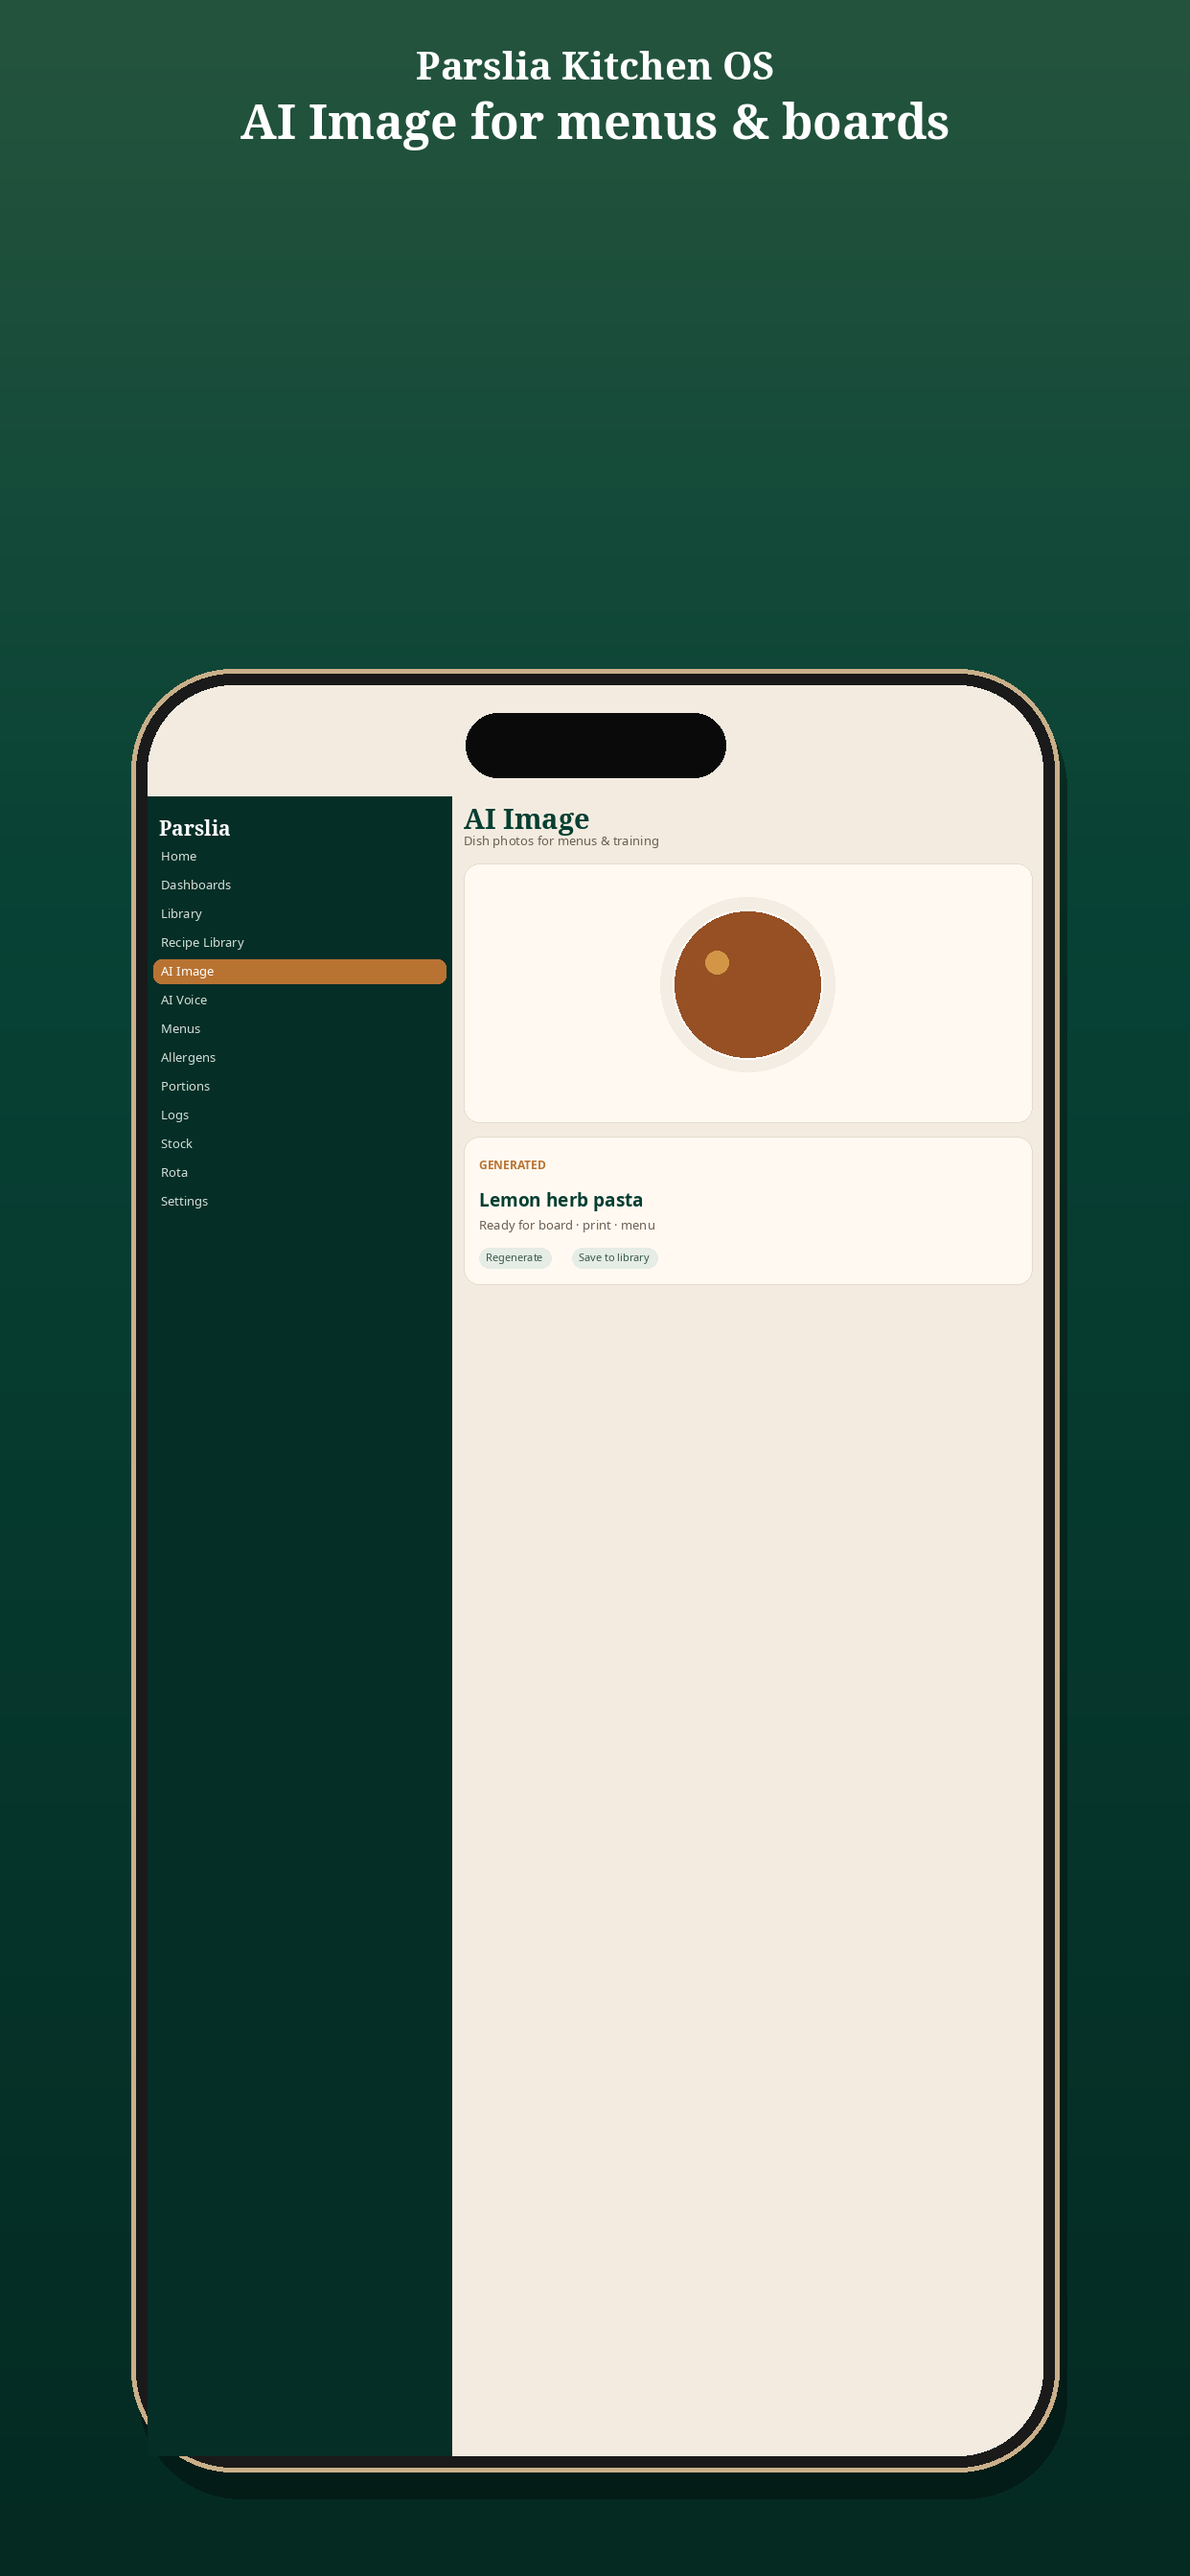
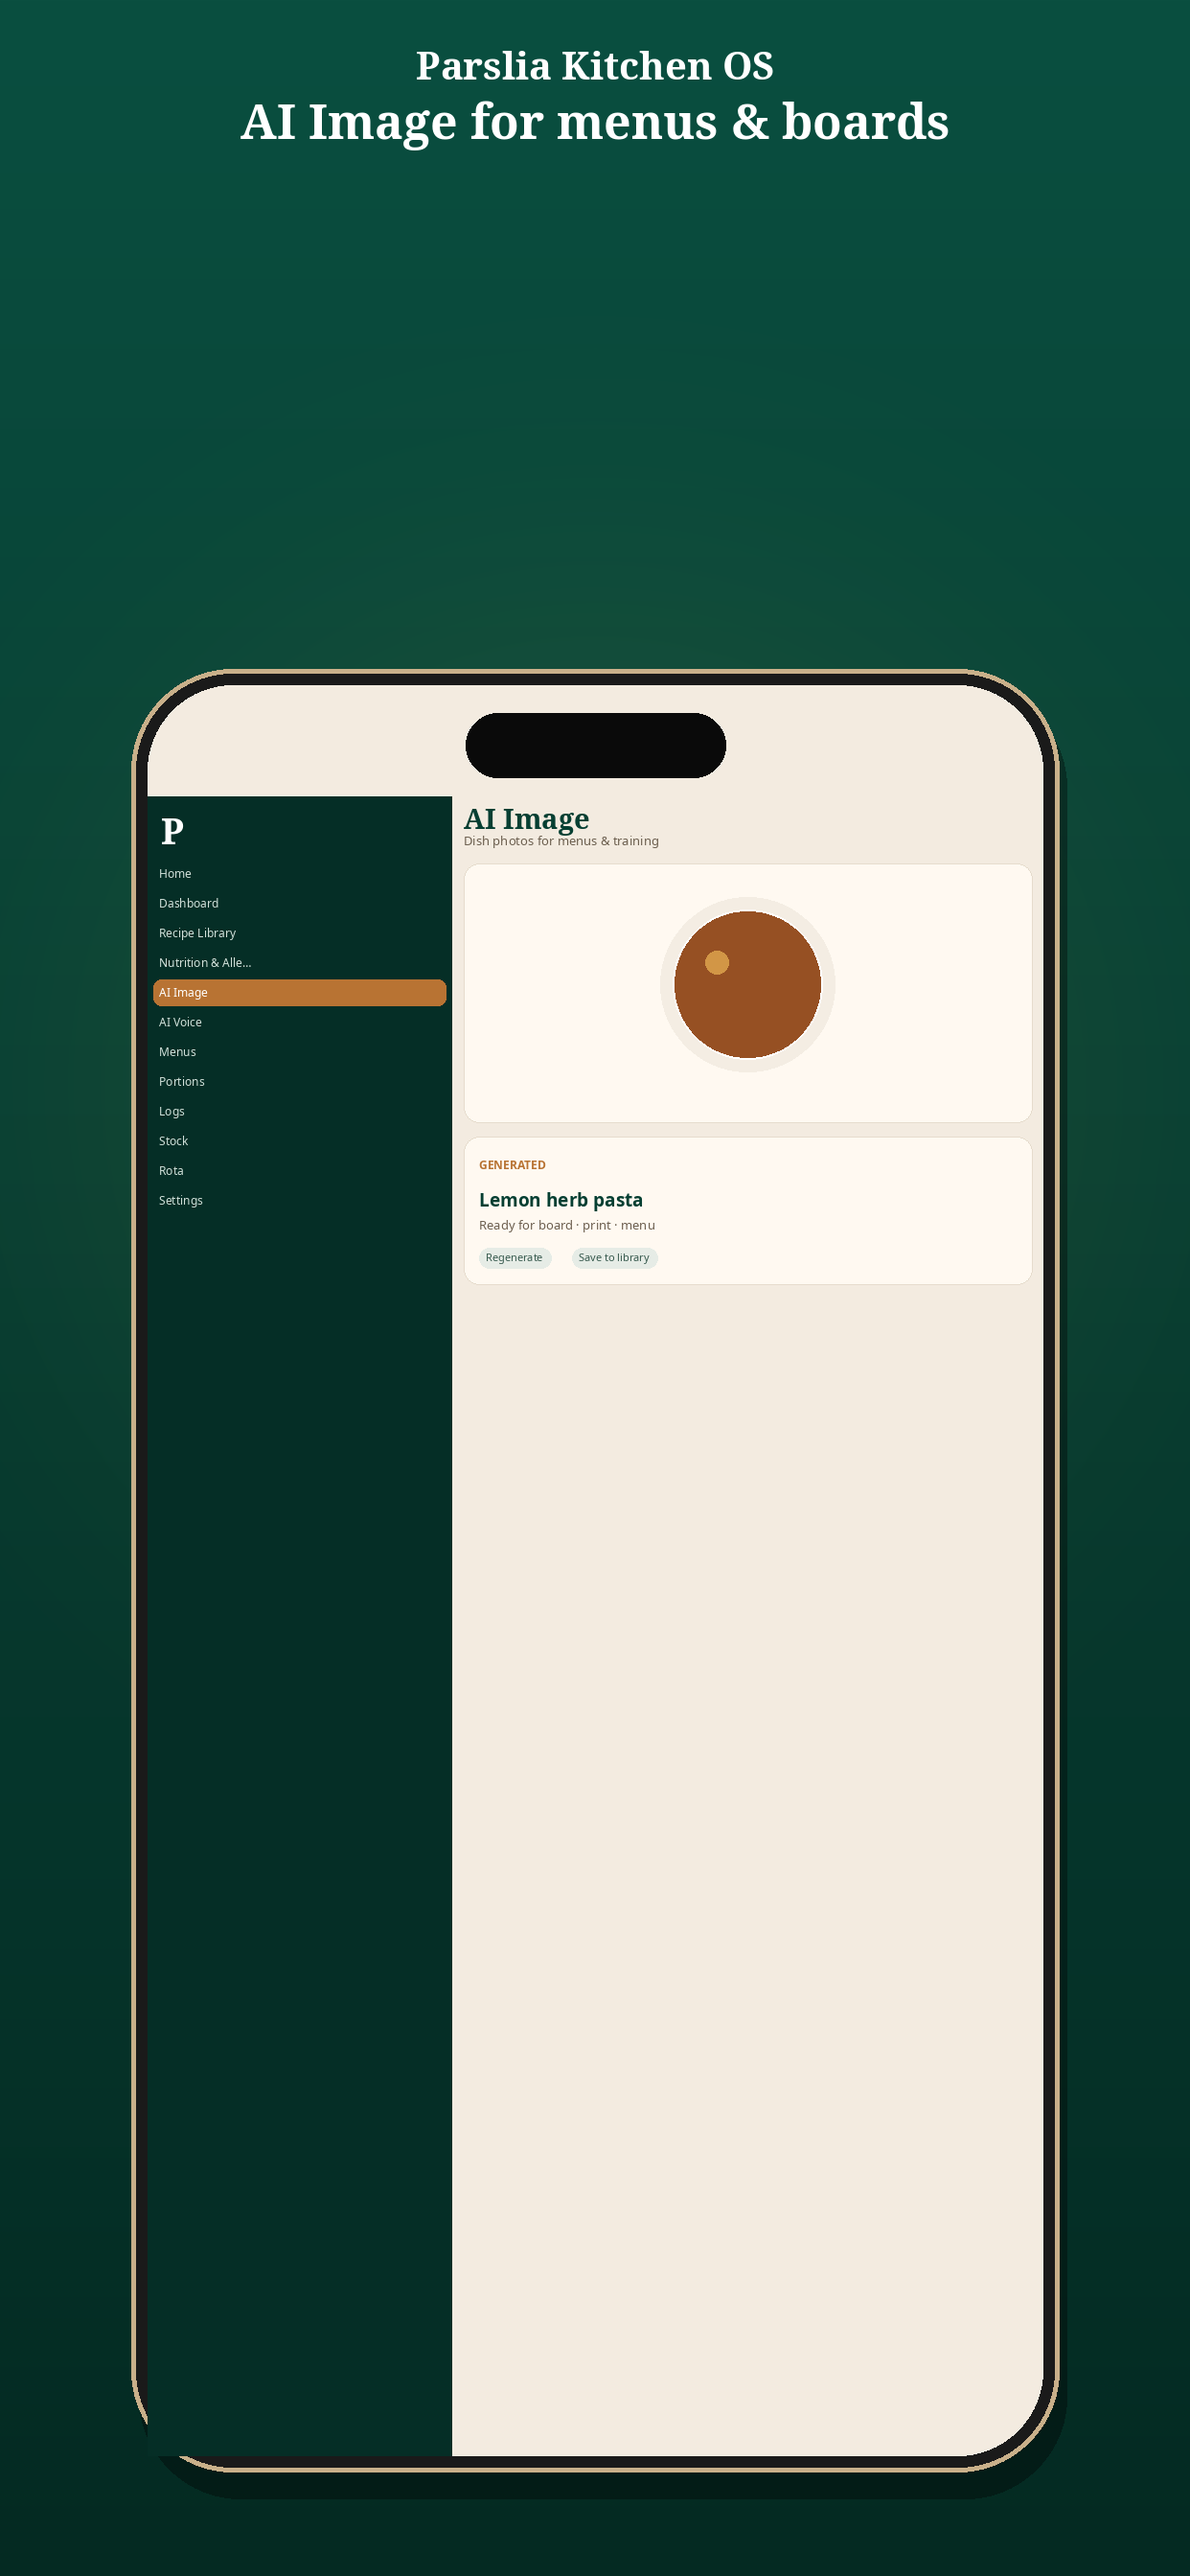
Match Nutrition & Allergens frame to App Store marketing style
Recreate the Nutrition & allergens screenshot at Apple-required
1284×2778 and 1242×2688 with nutrition stats and free-from icons.

Changed region(s): [[0.0, 0.0, 1.0, 0.0625], [0.1224, 0.3125, 0.3977, 0.4688]]

diff --git a/scripts/app-store-shots/generate.py b/scripts/app-store-shots/generate.py
@@ -66,9 +66,9 @@ SHOTS = [
     },
     {
         "id": "06-allergens",
-        "tagline": "Allergen control built in",
+        "tagline": "Nutrition & allergens, done right",
         "screen": "allergens",
-        "nav": "Allergens",
+        "nav": "Nutrition & Allergens",
     },
     {
         "id": "07-portions",
@@ -98,13 +98,12 @@ SHOTS = [
 
 NAV = [
     "Home",
-    "Dashboards",
-    "Library",
+    "Dashboard",
     "Recipe Library",
+    "Nutrition & Allergens",
     "AI Image",
     "AI Voice",
     "Menus",
-    "Allergens",
     "Portions",
     "Logs",
     "Stock",
@@ -165,20 +164,22 @@ def wrap_text(draw, text, fnt, max_width):
 
 def draw_background(img: Image.Image):
     w, h = img.size
-    draw = ImageDraw.Draw(img)
+    px = img.load()
+    cx, cy = w // 2, int(h * 0.42)
+    max_d = (cx ** 2 + cy ** 2) ** 0.5
     for y in range(h):
         t = y / max(h - 1, 1)
-        # vertical blend green mid -> deep
-        r = int(GREEN_MID[0] * (1 - t) + GREEN_DEEP[0] * t)
-        g = int(GREEN_MID[1] * (1 - t) + GREEN_DEEP[1] * t)
-        b = int(GREEN_MID[2] * (1 - t) + GREEN_DEEP[2] * t)
-        # copper wash near top
-        if t < 0.35:
-            k = (0.35 - t) / 0.35 * 0.16
-            r = int(r * (1 - k) + COPPER[0] * k)
-            g = int(g * (1 - k) + COPPER[1] * k)
-            b = int(b * (1 - k) + COPPER[2] * k)
-        draw.line([(0, y), (w, y)], fill=(r, g, b))
+        base_r = int(GREEN_MID[0] * (1 - t) + GREEN_DEEP[0] * t)
+        base_g = int(GREEN_MID[1] * (1 - t) + GREEN_DEEP[1] * t)
+        base_b = int(GREEN_MID[2] * (1 - t) + GREEN_DEEP[2] * t)
+        for x in range(w):
+            # soft yellow-green glow behind phone
+            d = ((x - cx) ** 2 + (y - cy) ** 2) ** 0.5 / max_d
+            glow = max(0.0, 1.0 - d * 1.35) ** 2 * 0.22
+            r = int(base_r * (1 - glow) + 180 * glow)
+            g = int(base_g * (1 - glow) + 190 * glow)
+            b = int(base_b * (1 - glow) + 90 * glow)
+            px[x, y] = (r, g, b, 255) if img.mode == "RGBA" else (r, g, b)
 
 
 def draw_phone_chrome(base: Image.Image, phone_box):
@@ -198,13 +199,13 @@ def draw_phone_chrome(base: Image.Image, phone_box):
     draw = ImageDraw.Draw(base)
     # metal frame
     rounded_rect(draw, phone_box, radius, fill=(26, 26, 26))
-    # gold rim
+    # silver rim (App Store marketing frame)
     rounded_rect(
         draw,
         phone_box,
         radius,
         fill=None,
-        outline=(201, 176, 138),
+        outline=(198, 198, 200),
         width=max(3, phone_w // 180),
     )
     inset = max(8, phone_w // 55)
@@ -224,16 +225,17 @@ def draw_phone_chrome(base: Image.Image, phone_box):
 def draw_sidebar(img, box, active: str, scale: float):
     x0, y0, x1, y1 = box
     draw = ImageDraw.Draw(img)
-    # clip-ish by drawing rectangle (screen already cream; we paint left)
     draw.rectangle(box, fill=SIDEBAR)
-    f_brand = font(SERIF, max(16, int(22 * scale)))
-    f_nav = font(SANS, max(12, int(14 * scale)))
-    draw.text((x0 + 12, y0 + 18), "Parslia", font=f_brand, fill=WHITE)
+    f_brand = font(SERIF, max(28, int(40 * scale)))
+    f_nav = font(SANS, max(11, int(13 * scale)))
+    # Large P mark like the marketing frames
+    draw.text((x0 + 14, y0 + int(10 * scale)), "P", font=f_brand, fill=WHITE)
 
-    y = y0 + int(52 * scale)
-    pad = max(4, int(6 * scale))
+    y = y0 + int(70 * scale)
+    pad = max(3, int(5 * scale))
     for item in NAV:
-        h = max(22, int(26 * scale))
+        h = max(24, int(28 * scale))
+        label = item if len(item) < 18 else item[:16] + "…"
         if item == active:
             rounded_rect(
                 draw,
@@ -241,9 +243,9 @@ def draw_sidebar(img, box, active: str, scale: float):
                 8,
                 fill=COPPER,
             )
-            draw.text((x0 + 14, y + h // 2), item, font=f_nav, fill=WHITE, anchor="lm")
+            draw.text((x0 + 12, y + h // 2), label, font=f_nav, fill=WHITE, anchor="lm")
         else:
-            draw.text((x0 + 14, y + h // 2), item, font=f_nav, fill=(210, 225, 218), anchor="lm")
+            draw.text((x0 + 12, y + h // 2), label, font=f_nav, fill=(210, 225, 218), anchor="lm")
         y += h + pad
         if y > y1 - 20:
             break
@@ -448,22 +450,85 @@ def draw_menu(img, box, scale):
             break
 
 
+def draw_allergen_icon(draw, cx, cy, r, kind, style="filled"):
+    """Simple circular nutrition / free-from icons."""
+    if style == "filled":
+        draw.ellipse((cx - r, cy - r, cx + r, cy + r), fill=COPPER)
+        ink = WHITE
+    elif style == "outline-brown":
+        draw.ellipse((cx - r, cy - r, cx + r, cy + r), outline=(140, 100, 60), width=max(2, r // 8))
+        ink = (140, 100, 60)
+    else:
+        draw.ellipse((cx - r, cy - r, cx + r, cy + r), outline=(140, 140, 140), width=max(2, r // 8))
+        ink = (120, 120, 120)
+
+    # glyph
+    if kind == "flame":
+        draw.polygon(
+            [(cx, cy - r // 2), (cx - r // 3, cy + r // 5), (cx, cy + r // 2), (cx + r // 3, cy + r // 5)],
+            fill=ink,
+        )
+    elif kind == "grain":
+        draw.ellipse((cx - r // 3, cy - r // 2, cx + r // 3, cy + r // 2), fill=ink)
+    elif kind == "drop":
+        draw.polygon([(cx, cy - r // 2), (cx - r // 3, cy), (cx, cy + r // 2), (cx + r // 3, cy)], fill=ink)
+    elif kind == "slash":
+        # peanut / allergen with diagonal free-from slash
+        draw.ellipse((cx - r // 3, cy - r // 3, cx + r // 3, cy + r // 3), outline=ink, width=max(2, r // 10))
+        draw.line((cx - r // 2, cy + r // 2, cx + r // 2, cy - r // 2), fill=ink, width=max(2, r // 8))
+    else:
+        draw.ellipse((cx - r // 4, cy - r // 4, cx + r // 4, cy + r // 4), fill=ink)
+        if style != "filled":
+            draw.line((cx - r // 2, cy + r // 2, cx + r // 2, cy - r // 2), fill=ink, width=max(2, r // 8))
+
+
 def draw_allergens(img, box, scale):
     x0, y0, x1, y1 = box
     draw = ImageDraw.Draw(img)
-    fh = font(SERIF, max(22, int(30 * scale)))
-    fs = font(SANS, max(12, int(14 * scale)))
-    draw.text((x0, y0), "Allergen control", font=fh, fill=GREEN)
-    draw.text((x0, y0 + int(36 * scale)), "14 allergens · clear flags", font=fs, fill=MUTED)
-    rows = [
-        ("Gluten", "Tracked"),
-        ("Dairy", "Tracked"),
-        ("Nuts", "Present · 2 dishes"),
-        ("Sesame", "Clear"),
-        ("Eggs", "Tracked"),
-        ("Sulphites", "Clear"),
+    fh = font(SERIF, max(20, int(26 * scale)))
+    draw.text((x0, y0), "Nutrition & Allergens", font=fh, fill=GREEN)
+
+    # Nutrition stats card
+    card_y = y0 + int(48 * scale)
+    card_h = int(150 * scale)
+    rounded_rect(draw, (x0, card_y, x1, card_y + card_h), 16, fill=WHITE, outline=(230, 220, 205))
+    stats = [
+        ("Calories", "590 kcal"),
+        ("Protein", "3.3 g"),
+        ("Carbs", "23.0 g"),
+        ("Fat", "0.3 g"),
     ]
-    draw_rows(draw, (x0, y0 + int(70 * scale), x1, y1), rows, scale, accent_idxs={2})
+    fl = font(SANS, max(11, int(13 * scale)))
+    fv = font(SANS_BOLD, max(14, int(18 * scale)))
+    col_w = (x1 - x0) // 2
+    for i, (label, value) in enumerate(stats):
+        col = i % 2
+        row = i // 2
+        cx = x0 + col * col_w + col_w // 2
+        cy = card_y + int(28 * scale) + row * int(60 * scale)
+        draw.text((cx, cy), label, font=fl, fill=MUTED, anchor="mm")
+        draw.text((cx, cy + int(24 * scale)), value, font=fv, fill=GREEN, anchor="mm")
+
+    # Icon grids
+    icons_top = card_y + card_h + int(28 * scale)
+    r = max(16, int(22 * scale))
+    gap_x = (x1 - x0) // 5
+    # Row 1 filled copper nutrition icons
+    row1 = ["flame", "grain", "grain", "drop", "grain"]
+    for i, kind in enumerate(row1):
+        cx = x0 + gap_x // 2 + i * gap_x
+        draw_allergen_icon(draw, cx, icons_top, r, kind, "filled")
+    # Row 2 brown free-from
+    row2_y = icons_top + int(60 * scale)
+    for i in range(5):
+        cx = x0 + gap_x // 2 + i * gap_x
+        draw_allergen_icon(draw, cx, row2_y, r, "slash", "outline-brown")
+    # Row 3 grey free-from
+    row3_y = row2_y + int(60 * scale)
+    if row3_y + r < y1:
+        for i in range(5):
+            cx = x0 + gap_x // 2 + i * gap_x
+            draw_allergen_icon(draw, cx, row3_y, r, "dot", "outline-grey")
 
 
 def draw_portions(img, box, scale):
